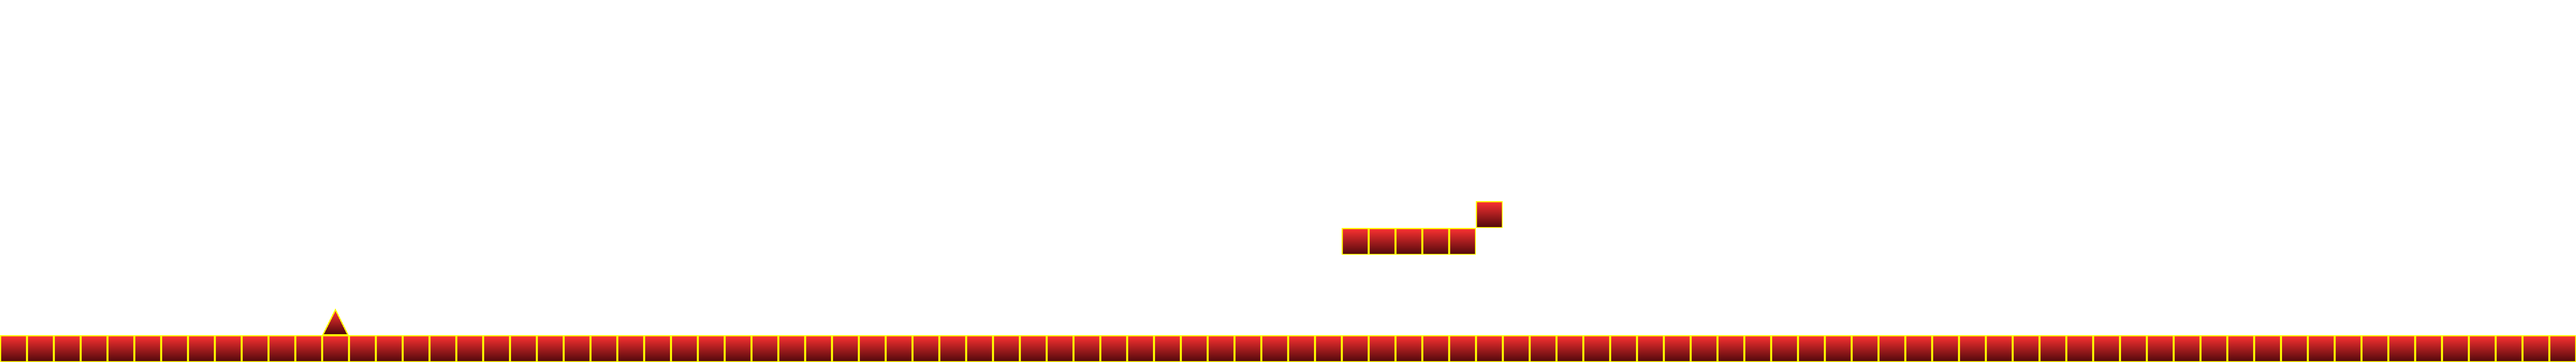
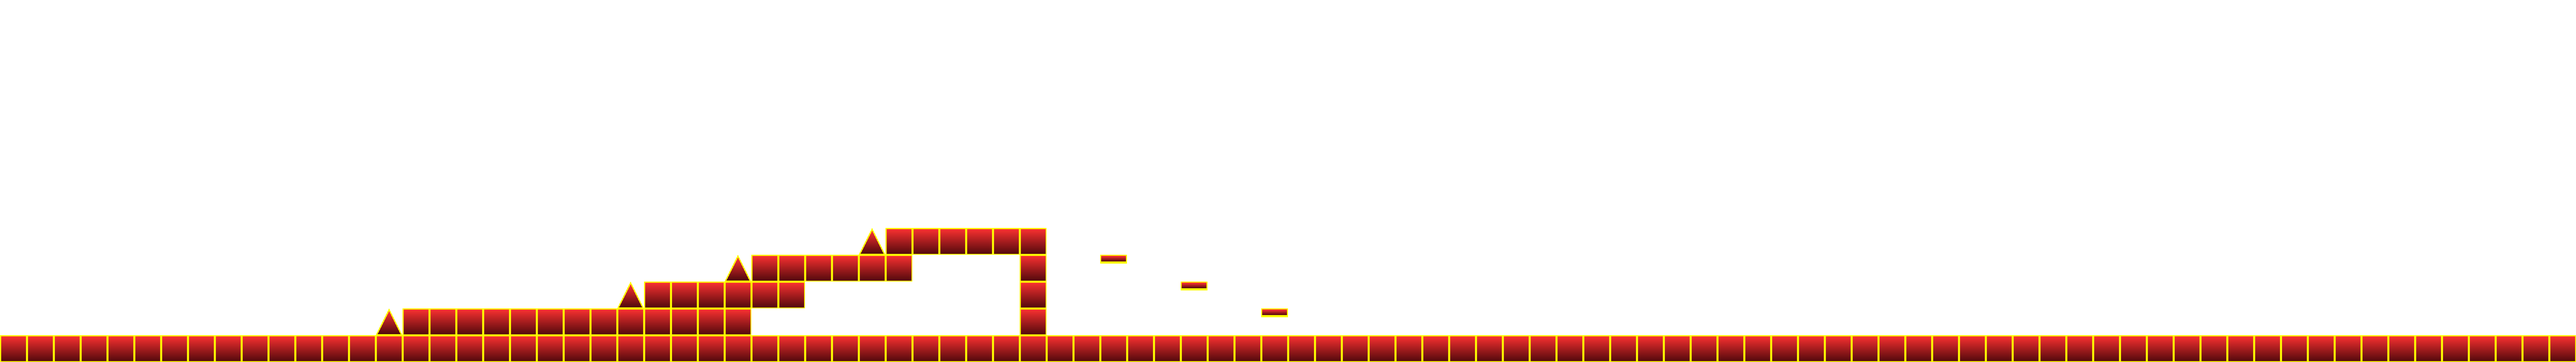
red sun wip

diff --git a/src/level/GameLevel.java b/src/level/GameLevel.java
@@ -173,11 +173,11 @@ public class GameLevel {
             "                                                                                                ",
             "                                                                                                ",
             "                                                                                                ",
-            "                                                       B                                        ",
-            "                                                  BBBBB                                         ",
             "                                                                                                ",
-            "                                                                                                ",
-            "            ^                                                                                   ",
+            "                                ^BBBBBB                                                         ",
+            "                           ^BBBBBB    B  -                                                      ",
+            "                       ^BBBBBB        B     -                                                   ",
+            "              ^BBBBBBBBBBBBB          B        -                                                ",
             "BBBBBBBBBBBBBBBBBBBBBBBBBBBBBBBBBBBBBBBBBBBBBBBBBBBBBBBBBBBBBBBBBBBBBBBBBBBBBBBBBBBBBBBBBBBBBBBB",
     };
     public static final GameLevel RED_SUN = new GameLevel(
